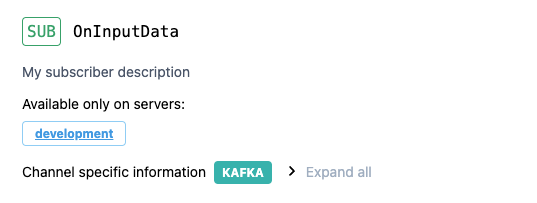
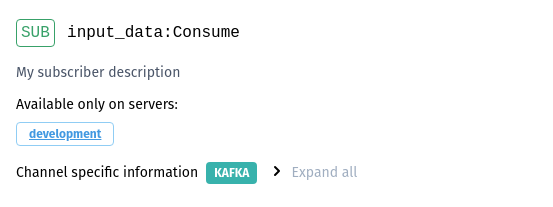
Add example for 'title='

diff --git a/docs/docs_src/getting_started/asyncapi/asyncapi_customization/custom_handler.py b/docs/docs_src/getting_started/asyncapi/asyncapi_customization/custom_handler.py
@@ -4,8 +4,13 @@ from faststream.kafka import KafkaBroker, KafkaMessage
 broker = KafkaBroker("localhost:9092")
 app = FastStream(broker)
 
-@broker.publisher("output_data", description="My publisher description")
-@broker.subscriber("input_data", description="My subscriber description")
+
+@broker.publisher(
+    "output_data", description="My publisher description", title="output_data:Produce"
+)
+@broker.subscriber(
+    "input_data", description="My subscriber description", title="input_data:Consume"
+)
 async def on_input_data(msg):
     # your processing logic
     pass

diff --git a/docs/docs/en/getting-started/asyncapi/custom.md b/docs/docs/en/getting-started/asyncapi/custom.md
@@ -67,12 +67,13 @@ Customizing handler information helps users comprehend the purpose and behavior 
 
 1. Navigate to your handler definitions in your FastStream application.
 1. Add descriptions to each handler using `description` field.
+1. Add titles to each handler using `title` field adhering to [URI format](https://datatracker.ietf.org/doc/html/rfc3986).
 1. Save the changes.
 1. Serve your FastStream app.
 
 Copy the following code in your basic.py file, we have highligted the additional info passed to the FastStream app handlers:
 
-```python linenums="1" hl_lines="7-8"
+```python linenums="1" hl_lines="8-13"
     {!> docs_src/getting_started/asyncapi/asyncapi_customization/custom_handler.py !}
 ```
 
@@ -94,7 +95,7 @@ To describe your message payload effectively, you can use Pydantic models. Here'
 
 Copy the following code in your basic.py file, we have highligted the creation of payload info and you can see it being passed to the return type and the `msg` argument type in the `on_input_data` function:
 
-```python linenums="1" hl_lines="5"
+```python linenums="1" hl_lines="7-10 19"
     {!> docs_src/getting_started/asyncapi/asyncapi_customization/payload_info.py !}
 ```
 
